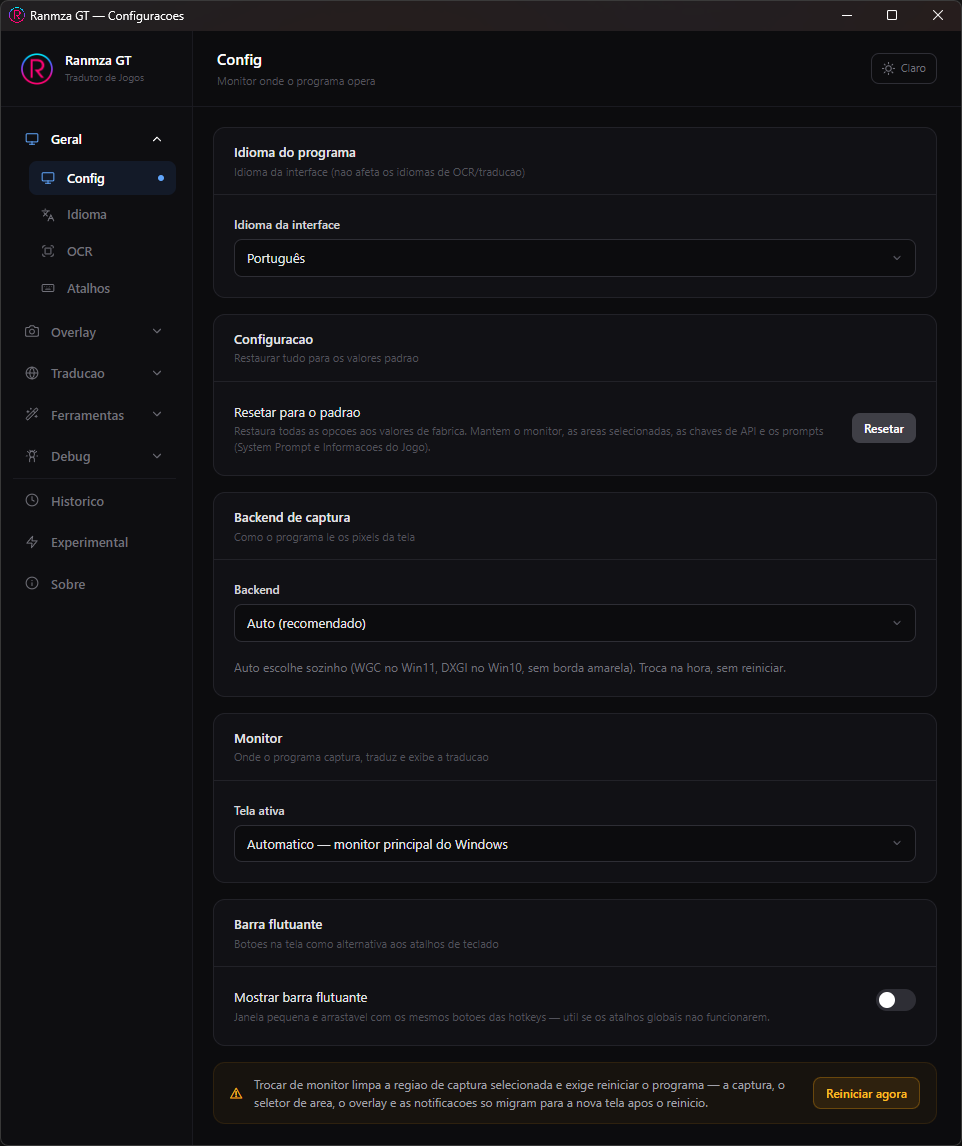
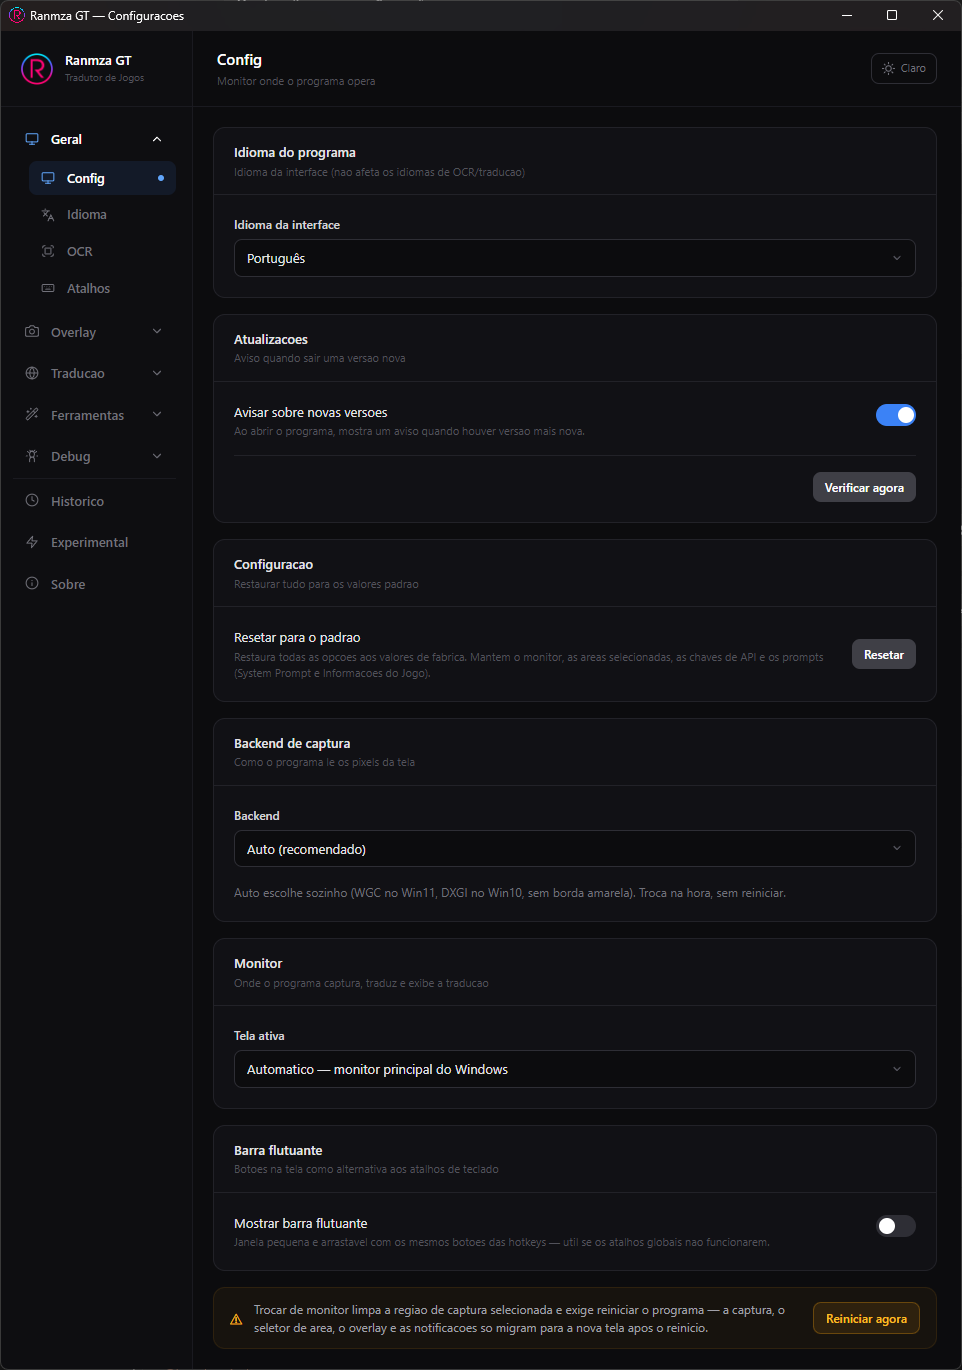
docs(manual): aviso de nova versao e botao Verificar agora
Secao 14 (Atualizando o programa) nos dois idiomas e o card Atualizacoes
na referencia de Geral > Config. Deixa explicito que o programa so avisa:
o download e a troca dos arquivos continuam manuais, e config.json,
chaves, fonts/ e models/ nao estao no .zip.

Captura geral-config.png refeita com o card novo.

diff --git a/_src/manual_en.md b/_src/manual_en.md
@@ -19,6 +19,7 @@ Practical guide to using **Ranmza GT**, the translator for games, visual novels,
 11. [History and performance](#11-history-and-performance)
 12. [Common problems and solutions](#12-common-problems-and-solutions)
 13. [Complete reference — all tabs](#13-complete-reference--all-tabs)
+14. [Updating the program](#14-updating-the-program)
 
 ---
 
@@ -483,7 +484,9 @@ Where the program runs.
 <p align="center"><img src="media/geral-config.png" alt="General › Config tab" width="820"></p>
 
 - **App language → Interface language** — switches the language of the settings window itself (Portuguese / English). It does not affect the OCR and translation languages. On first run it detects the Windows language (falling back to English if it isn't Portuguese).
-- **Configuration → Reset to default** — restores every option to factory values. It **keeps** the monitor, the selected areas, the API keys and the prompts (System Prompt and Game Info).
+- **Updates → Notify me about new versions** — turns on the notice that shows up when you open the program and a newer version has been published (see section 14). Turn it off here, or from the notice itself, and turn it back on with this toggle.
+- **Updates → Check now** — checks right away whether a new version is out, even with the notice turned off. The answer appears next to the button: *"You are on the latest version"*, the version found (with a **Download** button that opens the page in your browser), or a warning that the check failed.
+- **Configuration → Reset to default** — restores every option to factory values. It **keeps** the monitor, the selected areas, the API keys, the prompts (System Prompt and Game Info) and the update-notice preference.
 - **Capture backend → Backend** — how the program reads screen pixels:
   - *Auto (recommended)* — decides on its own: WGC on Windows 11, DXGI on Windows 10, with no yellow border. Switches instantly, no restart.
   - *WGC (Windows 11)* — Windows Graphics Capture.
@@ -747,3 +750,19 @@ Two collapsible cards.
 ### About
 
 Program information: icon, name and installed **version**, the feature list, the author, and the full **License** — what's allowed (free personal use, distributing unmodified copies, creating content such as videos and streams) and what's prohibited (modifying or reverse-engineering, selling, redistributing modified versions, commercial use without authorization, removing credits), plus the warranty disclaimer.
+
+---
+
+## 14. Updating the program
+
+When you open the program, if a newer version has been published, a notice appears showing the version you have and the one that came out. The **Download** button opens the new version's page in your browser — that's where the release notes and the `.zip` file are.
+
+**The program does not download and does not install anything by itself.** It only tells you; downloading and replacing the files is up to you, the same way you did the first install. This is on purpose: a program that replaces its own executable is exactly the behaviour Windows Defender blocks, and it isn't worth the risk of the whole program failing to start.
+
+**How to update**, once you have the `.zip`: close Ranmza-GT, extract its contents over your current folder and confirm replacing the files. Your settings (`config.json`), the API keys, the fonts you dropped in `fonts/` and the files in `models/` (OneOCR and MI-GAN) are **not in the `.zip`** and stay where they are.
+
+To turn the notice off, tick **Do not notify me about new versions** on the notice itself, or turn it off in **General › Config → Updates**. That toggle is how it comes back.
+
+Even with the notice off, the **Check now** button in the same card checks right away whether a new version is out — that's how to look every once in a while without being told every time.
+
+> The program queries the releases page at most once every 6 hours, no matter how many times you open and close it during the day — the notice still appears on every launch, because it uses the last stored answer. The *Check now* button ignores that interval. If you have no internet, nothing happens: no error shows up and the program opens normally.

diff --git a/_src/manual.md b/_src/manual.md
@@ -21,6 +21,7 @@ detalhes técnicos.
 11. [Histórico e desempenho](#11-histórico-e-desempenho)
 12. [Problemas comuns e soluções](#12-problemas-comuns-e-soluções)
 13. [Referência completa — todas as abas](#13-referência-completa--todas-as-abas)
+14. [Atualizando o programa](#14-atualizando-o-programa)
 
 ---
 
@@ -729,9 +730,16 @@ Onde o programa opera.
 - **Idioma do programa → Idioma da interface** — troca o idioma da própria janela de
   configuração (Português / Inglês). Não afeta os idiomas de OCR e tradução. Na primeira
   execução ele detecta o idioma do Windows (cai para Inglês se não for Português).
+- **Atualizações → Avisar sobre novas versões** — liga o aviso que aparece ao abrir o programa
+  quando existe versão mais nova publicada (veja a seção 14). Desligue aqui, ou pelo próprio
+  aviso, e religue por este toggle.
+- **Atualizações → Verificar agora** — consulta na hora se existe versão nova, mesmo com o
+  aviso desligado. A resposta aparece ao lado do botão: *"Você está na versão mais recente"*,
+  a versão encontrada (com um botão **Baixar** que abre a página no navegador) ou um aviso de
+  que não foi possível verificar.
 - **Configuração → Resetar para o padrão** — restaura todas as opções aos valores de fábrica.
-  **Mantém** o monitor, as áreas selecionadas, as chaves de API e os prompts (System Prompt e
-  Informações do Jogo).
+  **Mantém** o monitor, as áreas selecionadas, as chaves de API, os prompts (System Prompt e
+  Informações do Jogo) e a preferência de aviso de atualização.
 - **Backend de captura → Backend** — como o programa lê os pixels da tela:
   - *Auto (recomendado)* — escolhe sozinho: WGC no Windows 11, DXGI no Windows 10, sem a borda
     amarela. A troca vale na hora, sem reiniciar.
@@ -1099,3 +1107,32 @@ e a **Licença de Uso** completa — o que é permitido (uso pessoal gratuito, d
 modificadas, criar conteúdo como vídeos e streams) e o que é proibido (modificar ou fazer
 engenharia reversa, vender, redistribuir versões modificadas, uso comercial sem autorização,
 remover créditos), além do aviso de garantia.
+
+---
+
+## 14. Atualizando o programa
+
+Ao abrir o programa, se existir uma versão mais nova publicada, aparece um aviso com a versão
+que você tem e a que saiu. O botão **Baixar** abre a página da versão nova no seu navegador —
+é lá que estão as novidades daquela versão e o arquivo `.zip`.
+
+**O programa não baixa e não instala nada sozinho.** Ele só avisa; o download e a troca dos
+arquivos são feitos por você, do mesmo jeito que na primeira instalação. Isso é de propósito:
+um programa que substitui o próprio executável é exatamente o comportamento que o Windows
+Defender bloqueia, e não vale o risco de o programa inteiro parar de abrir.
+
+**Como atualizar**, depois de baixar o `.zip`: feche o Ranmza-GT, extraia o conteúdo por cima
+da pasta atual e confirme a substituição dos arquivos. Suas configurações (`config.json`),
+as chaves de API, as fontes que você colocou em `fonts/` e os arquivos de `models/` (OneOCR e
+MI-GAN) **não estão no `.zip`** e continuam onde estão.
+
+Para desligar o aviso, marque **Não avisar sobre novas versões** no próprio aviso, ou desligue
+em **Geral › Config → Atualizações**. É por esse toggle que ele volta a aparecer.
+
+Mesmo com o aviso desligado, o botão **Verificar agora**, no mesmo card, consulta na hora se
+saiu versão nova — é o jeito de olhar de vez em quando sem ficar sendo avisado toda vez.
+
+> O programa consulta a página de versões no máximo uma vez a cada 6 horas, mesmo que você
+> abra e feche várias vezes no dia — o aviso continua aparecendo em toda abertura, porque ele
+> usa a última resposta guardada. O botão *Verificar agora* ignora esse intervalo. Se você
+> estiver sem internet, nada acontece: nenhum erro aparece e o programa abre normalmente.

diff --git a/en/Manual/complete-reference-all-tabs.md b/en/Manual/complete-reference-all-tabs.md
@@ -13,7 +13,9 @@ Where the program runs.
 <p align="center"><img src="media/geral-config.png" alt="General › Config tab" width="820"></p>
 
 - **App language → Interface language** — switches the language of the settings window itself (Portuguese / English). It does not affect the OCR and translation languages. On first run it detects the Windows language (falling back to English if it isn't Portuguese).
-- **Configuration → Reset to default** — restores every option to factory values. It **keeps** the monitor, the selected areas, the API keys and the prompts (System Prompt and Game Info).
+- **Updates → Notify me about new versions** — turns on the notice that shows up when you open the program and a newer version has been published (see section 14). Turn it off here, or from the notice itself, and turn it back on with this toggle.
+- **Updates → Check now** — checks right away whether a new version is out, even with the notice turned off. The answer appears next to the button: *"You are on the latest version"*, the version found (with a **Download** button that opens the page in your browser), or a warning that the check failed.
+- **Configuration → Reset to default** — restores every option to factory values. It **keeps** the monitor, the selected areas, the API keys, the prompts (System Prompt and Game Info) and the update-notice preference.
 - **Capture backend → Backend** — how the program reads screen pixels:
   - *Auto (recommended)* — decides on its own: WGC on Windows 11, DXGI on Windows 10, with no yellow border. Switches instantly, no restart.
   - *WGC (Windows 11)* — Windows Graphics Capture.
@@ -277,3 +279,5 @@ Two collapsible cards.
 ## About
 
 Program information: icon, name and installed **version**, the feature list, the author, and the full **License** — what's allowed (free personal use, distributing unmodified copies, creating content such as videos and streams) and what's prohibited (modifying or reverse-engineering, selling, redistributing modified versions, commercial use without authorization, removing credits), plus the warranty disclaimer.
+
+---

diff --git a/Manual/referencia-completa-todas-as-abas.md b/Manual/referencia-completa-todas-as-abas.md
@@ -16,9 +16,16 @@ Onde o programa opera.
 - **Idioma do programa → Idioma da interface** — troca o idioma da própria janela de
   configuração (Português / Inglês). Não afeta os idiomas de OCR e tradução. Na primeira
   execução ele detecta o idioma do Windows (cai para Inglês se não for Português).
+- **Atualizações → Avisar sobre novas versões** — liga o aviso que aparece ao abrir o programa
+  quando existe versão mais nova publicada (veja a seção 14). Desligue aqui, ou pelo próprio
+  aviso, e religue por este toggle.
+- **Atualizações → Verificar agora** — consulta na hora se existe versão nova, mesmo com o
+  aviso desligado. A resposta aparece ao lado do botão: *"Você está na versão mais recente"*,
+  a versão encontrada (com um botão **Baixar** que abre a página no navegador) ou um aviso de
+  que não foi possível verificar.
 - **Configuração → Resetar para o padrão** — restaura todas as opções aos valores de fábrica.
-  **Mantém** o monitor, as áreas selecionadas, as chaves de API e os prompts (System Prompt e
-  Informações do Jogo).
+  **Mantém** o monitor, as áreas selecionadas, as chaves de API, os prompts (System Prompt e
+  Informações do Jogo) e a preferência de aviso de atualização.
 - **Backend de captura → Backend** — como o programa lê os pixels da tela:
   - *Auto (recomendado)* — escolhe sozinho: WGC no Windows 11, DXGI no Windows 10, sem a borda
     amarela. A troca vale na hora, sem reiniciar.
@@ -386,3 +393,5 @@ e a **Licença de Uso** completa — o que é permitido (uso pessoal gratuito, d
 modificadas, criar conteúdo como vídeos e streams) e o que é proibido (modificar ou fazer
 engenharia reversa, vender, redistribuir versões modificadas, uso comercial sem autorização,
 remover créditos), além do aviso de garantia.
+
+---

diff --git a/Manual/atualizando-o-programa.md b/Manual/atualizando-o-programa.md
@@ -1,0 +1,26 @@
+# 14. Atualizando o programa
+
+Ao abrir o programa, se existir uma versão mais nova publicada, aparece um aviso com a versão
+que você tem e a que saiu. O botão **Baixar** abre a página da versão nova no seu navegador —
+é lá que estão as novidades daquela versão e o arquivo `.zip`.
+
+**O programa não baixa e não instala nada sozinho.** Ele só avisa; o download e a troca dos
+arquivos são feitos por você, do mesmo jeito que na primeira instalação. Isso é de propósito:
+um programa que substitui o próprio executável é exatamente o comportamento que o Windows
+Defender bloqueia, e não vale o risco de o programa inteiro parar de abrir.
+
+**Como atualizar**, depois de baixar o `.zip`: feche o Ranmza-GT, extraia o conteúdo por cima
+da pasta atual e confirme a substituição dos arquivos. Suas configurações (`config.json`),
+as chaves de API, as fontes que você colocou em `fonts/` e os arquivos de `models/` (OneOCR e
+MI-GAN) **não estão no `.zip`** e continuam onde estão.
+
+Para desligar o aviso, marque **Não avisar sobre novas versões** no próprio aviso, ou desligue
+em **Geral › Config → Atualizações**. É por esse toggle que ele volta a aparecer.
+
+Mesmo com o aviso desligado, o botão **Verificar agora**, no mesmo card, consulta na hora se
+saiu versão nova — é o jeito de olhar de vez em quando sem ficar sendo avisado toda vez.
+
+> O programa consulta a página de versões no máximo uma vez a cada 6 horas, mesmo que você
+> abra e feche várias vezes no dia — o aviso continua aparecendo em toda abertura, porque ele
+> usa a última resposta guardada. O botão *Verificar agora* ignora esse intervalo. Se você
+> estiver sem internet, nada acontece: nenhum erro aparece e o programa abre normalmente.

diff --git a/en/Manual/updating-the-program.md b/en/Manual/updating-the-program.md
@@ -1,0 +1,13 @@
+# 14. Updating the program
+
+When you open the program, if a newer version has been published, a notice appears showing the version you have and the one that came out. The **Download** button opens the new version's page in your browser — that's where the release notes and the `.zip` file are.
+
+**The program does not download and does not install anything by itself.** It only tells you; downloading and replacing the files is up to you, the same way you did the first install. This is on purpose: a program that replaces its own executable is exactly the behaviour Windows Defender blocks, and it isn't worth the risk of the whole program failing to start.
+
+**How to update**, once you have the `.zip`: close Ranmza-GT, extract its contents over your current folder and confirm replacing the files. Your settings (`config.json`), the API keys, the fonts you dropped in `fonts/` and the files in `models/` (OneOCR and MI-GAN) are **not in the `.zip`** and stay where they are.
+
+To turn the notice off, tick **Do not notify me about new versions** on the notice itself, or turn it off in **General › Config → Updates**. That toggle is how it comes back.
+
+Even with the notice off, the **Check now** button in the same card checks right away whether a new version is out — that's how to look every once in a while without being told every time.
+
+> The program queries the releases page at most once every 6 hours, no matter how many times you open and close it during the day — the notice still appears on every launch, because it uses the last stored answer. The *Check now* button ignores that interval. If you have no internet, nothing happens: no error shows up and the program opens normally.

diff --git a/_sidebar.md b/_sidebar.md
@@ -12,3 +12,4 @@
 - [11. Histórico e desempenho](/Manual/historico-e-desempenho.md)
 - [12. Problemas comuns e soluções](/Manual/problemas-comuns-e-solucoes.md)
 - [13. Referência completa — todas as abas](/Manual/referencia-completa-todas-as-abas.md)
+- [14. Atualizando o programa](/Manual/atualizando-o-programa.md)

diff --git a/en/_sidebar.md b/en/_sidebar.md
@@ -12,3 +12,4 @@
 - [11. History and performance](/en/Manual/history-and-performance.md)
 - [12. Common problems and solutions](/en/Manual/common-problems-and-solutions.md)
 - [13. Complete reference — all tabs](/en/Manual/complete-reference-all-tabs.md)
+- [14. Updating the program](/en/Manual/updating-the-program.md)
